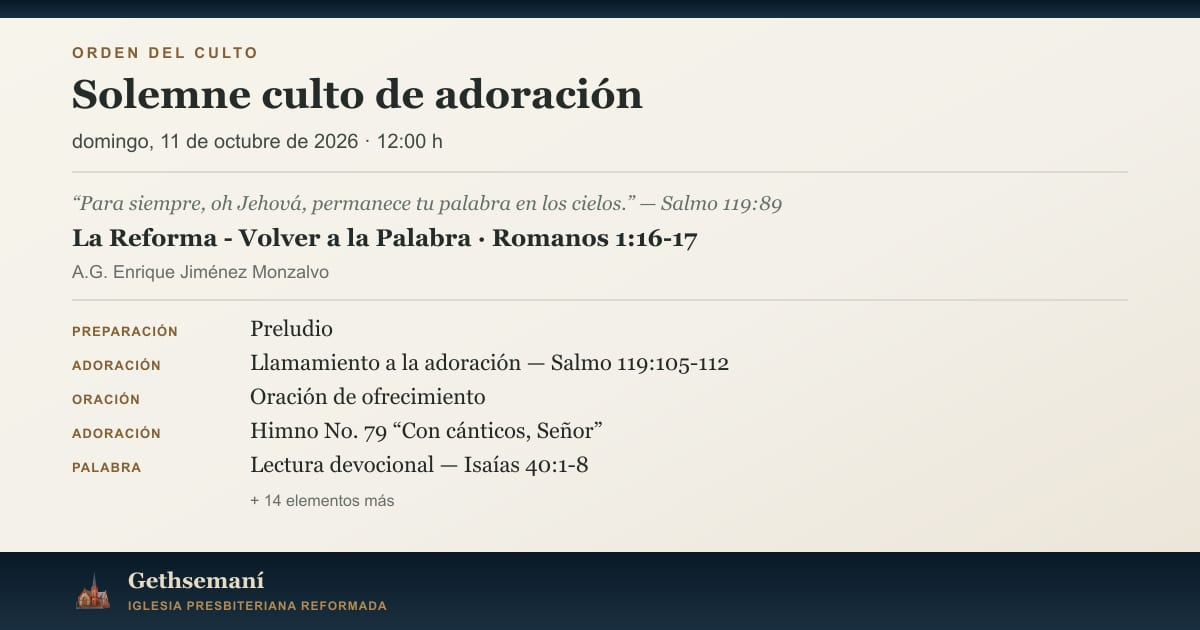
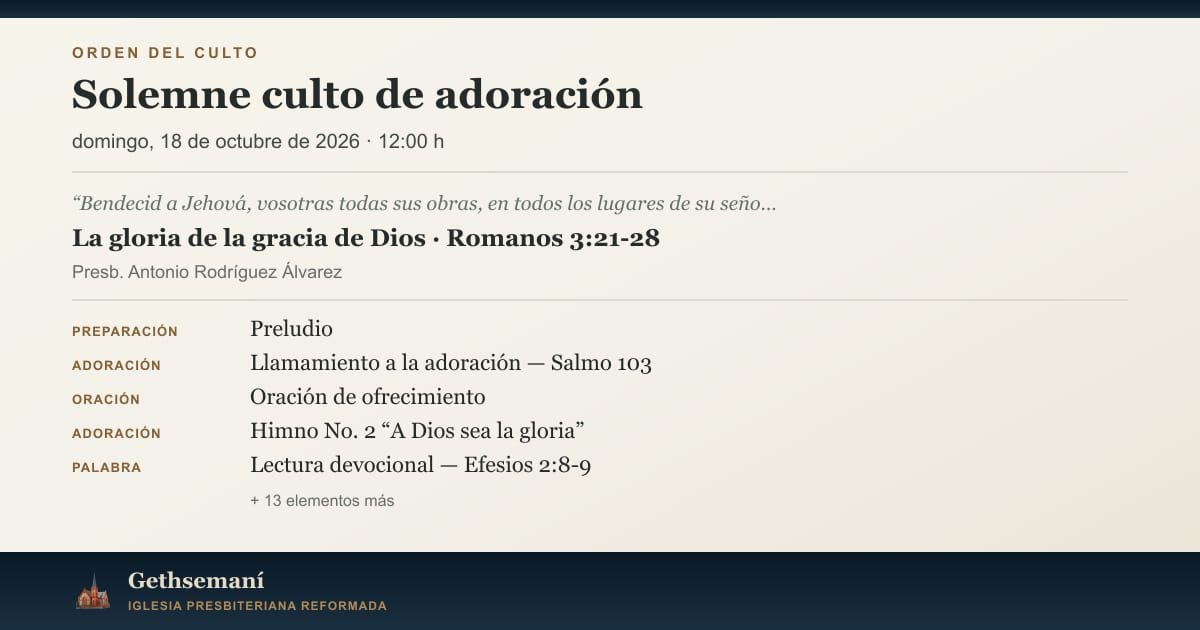
Publica el culto del 18 de octubre y Una fe fundamentada en la Palabra de Dios.

diff --git a/src/content/reflections/una-fe-fundamentada-en-la-palabra-de-dios.md b/src/content/reflections/una-fe-fundamentada-en-la-palabra-de-dios.md
@@ -1,0 +1,18 @@
+---
+title: Una fe fundamentada en la Palabra de Dios
+date: 2026-10-18T12:00:00-06:00
+description: La verdadera reforma comienza cuando la Palabra de Dios examina nuestro corazón y descansamos plenamente en la obra redentora de Cristo.
+passage: '“Porque no me avergüenzo del evangelio, porque es poder de Dios para salvación a todo aquel que cree… Mas el justo por la fe vivirá.” — Romanos 1:16-17'
+author: Boletín Vida Abundante
+published: true
+---
+
+El 31 de octubre de 1517, Martín Lutero hizo públicas sus noventa y cinco tesis, cuestionando prácticas de la iglesia que consideraba contrarias a las Escrituras. Este acontecimiento marcó el inicio de la Reforma protestante, cuyo propósito fundamental fue recuperar la autoridad de la Palabra de Dios y la claridad del evangelio de Jesucristo.
+
+Lutero fue un hombre que amó profundamente las Escrituras y comprendió que la salvación no se obtiene mediante méritos humanos, obras religiosas ni esfuerzos personales, sino únicamente por la gracia de Dios, mediante la fe en Jesucristo. Su vida nos recuerda que la verdadera reforma comienza cuando la Palabra de Dios examina nuestro corazón y transforma nuestra manera de pensar y vivir.
+
+La Reforma también nos enseña la importancia de reconocer nuestra condición pecaminosa y nuestra absoluta necesidad de la gracia divina. Lutero no buscaba simplemente cambiar estructuras religiosas, sino encontrar paz para su alma en la justicia perfecta de Cristo. En el evangelio descubrió que Jesucristo llevó nuestros pecados en la cruz y que nuestra justicia delante de Dios procede de Él.
+
+Hoy, como iglesia, necesitamos conservar ese amor por la Palabra de Dios y esa dependencia de su gracia. No basta con recordar la Reforma como un acontecimiento histórico; debemos vivir conforme a las verdades que la hicieron necesaria. Examinemos nuestra fe, sometamos nuestras ideas a las Escrituras y descansemos plenamente en la obra redentora de Cristo.
+
+Que el Señor nos conceda una fe firme, un corazón humilde y una vida transformada por su verdad, para que toda nuestra adoración y servicio sean para la gloria de su nombre.

diff --git a/src/content/service-orders/2026-10-18-culto-12.md b/src/content/service-orders/2026-10-18-culto-12.md
@@ -1,0 +1,55 @@
+---
+title: Solemne culto de adoración
+date: 2026-10-18T12:00:00-06:00
+time: "12:00"
+location: Templo Gethsemaní
+theme: '“Bendecid a Jehová, vosotras todas sus obras, en todos los lugares de su señorío. Bendice, alma mía, a Jehová.” — Salmo 103:22'
+sermonTitle: La gloria de la gracia de Dios
+sermonPassage: Romanos 3:21-28
+sermonImage: /images/sermons/la-gloria-de-la-gracia-de-dios-romanos-3.jpg
+sermonImageAlt: Pergamino de deuda tachado con el sello Cancelada sobre una mesa antigua junto a una pluma, con el título La gloria de la gracia de Dios, Romanos 3:21-28
+preacher: Presb. Antonio Rodríguez Álvarez
+published: true
+elements:
+  - label: Preparación
+    title: Preludio
+  - label: Adoración
+    title: Llamamiento a la adoración
+    detail: Salmo 103
+  - label: Oración
+    title: Oración de ofrecimiento
+  - label: Adoración
+    title: Himno No. 2 “A Dios sea la gloria”
+  - label: Palabra
+    title: Lectura devocional
+    detail: Efesios 2:8-9
+  - label: Comunidad
+    title: Saludos, bienvenida y oración pastoral
+  - label: Adoración
+    title: Himno No. 237 “Maravillosa gracia”
+  - label: Historia
+    title: Breve comentario sobre Martín Lutero
+  - label: Adoración
+    title: Himno No. 172 “En la cruz”
+  - label: Palabra
+    title: Lectura bíblica
+    detail: Romanos 3:21-28
+  - label: Palabra
+    title: Mensaje “La gloria de la gracia de Dios”
+    detail: Presb. Antonio Rodríguez Álvarez
+  - label: Respuesta
+    title: Himno de confirmación No. 278 “Sublime gracia”
+  - label: Ofrendas
+    title: Himno No. 445 “Quiero darte mi ofrenda”
+  - label: Ofrendas
+    title: Consagración de ofrendas y diezmos
+    detail: 2 Corintios 9:7
+  - label: Comunidad
+    title: Avisos
+  - label: Envío
+    title: Bendición pastoral
+  - label: Envío
+    title: Doxología No. 450 “Dios te bendiga”
+  - label: Dirección
+    title: Hazael Cordova Ruiz
+---

diff --git a/src/content/service-orders/2026-10-18-culto-vespertino.md b/src/content/service-orders/2026-10-18-culto-vespertino.md
@@ -1,25 +1,25 @@
 ---
 title: Culto vespertino de adoración
-date: 2026-10-11T18:00:00-06:00
+date: 2026-10-18T18:00:00-06:00
 time: "18:00"
 location: Templo Gethsemaní
-sermonTitle: Cuéntales cuán grandes cosas el Señor ha hecho contigo
-sermonPassage: Marcos 5:1-20
-preacher: Sem. Beatriz Samantha Hernández Jiménez
+sermonTitle: La gratitud de la fe
+sermonPassage: Lucas 17:11-19
+preacher: Presb. Antonio Rodríguez Álvarez
 published: true
 elements:
   - label: Preparación
     title: Preludio
   - label: Adoración
     title: Llamamiento a la adoración
-    detail: Salmo 92
+    detail: Salmo 100
   - label: Oración
     title: Oración de ofrecimiento
   - label: Adoración
-    title: Himno No. 35 “Grande es Jehová”
+    title: Himno No. 331 “Si hay valor y fe”
   - label: Palabra
     title: Lectura devocional
-    detail: 2 Corintios 5:17-19
+    detail: Hebreos 11
   - label: Oración
     title: Momentos de oración
   - label: Adoración
@@ -27,17 +27,16 @@ elements:
     detail: Tres himnos a escoger
   - label: Palabra
     title: Lectura bíblica
-    detail: Marcos 5:1-20
+    detail: Lucas 17:11-19
   - label: Palabra
-    title: Mensaje “Cuéntales cuán grandes cosas el Señor ha hecho contigo”
-    detail: Sem. Beatriz Samantha Hernández Jiménez
+    title: Mensaje “La gratitud de la fe”
+    detail: Presb. Antonio Rodríguez Álvarez
   - label: Ofrendas
     title: Himno No. 445 “Quiero darte mi ofrenda”
   - label: Comunidad
     title: Avisos
   - label: Envío
-    title: Bendición
-    detail: Padre Nuestro
+    title: Bendición pastoral
   - label: Envío
     title: Doxología No. 450 “Dios te bendiga”
   - label: Dirección

diff --git a/src/content/service-orders/2026-10-18-escuela-dominical.md b/src/content/service-orders/2026-10-18-escuela-dominical.md
@@ -1,37 +1,37 @@
 ---
 title: Escuela Dominical Superior “Antioquía”
-date: 2026-10-11T10:30:00-06:00
+date: 2026-10-18T10:30:00-06:00
 time: "10:30"
 location: Templo Gethsemaní
 theme: Guerra de palabras
-sermonTitle: Clases 3 y 4 “Satanás habló y los reproches a Dios”
-sermonPassage: Juan 1:1-18
+sermonTitle: Clase 6 “Preparación para la batalla”
+sermonPassage: Efesios 1:15-23
 preacher: Hna. Gladis Hernández Solís
 published: true
 elements:
   - label: Adoración
     title: Llamamiento a la adoración
-    detail: Salmo 81
+    detail: Salmo 107:1-15
   - label: Oración
     title: Oración de ofrecimiento
   - label: Adoración
-    title: Himno No. 78 “Cantemos al Señor”
+    title: Himno No. 363 “En Jesucristo, puerto de paz”
   - label: Palabra
     title: Lectura devocional
-    detail: Colosenses 1:15-17
+    detail: Efesios 6:10-13
   - label: Adoración
-    title: Himno No. 333 “Cerca, más cerca”
+    title: Himno No. 366 “Dios cuidará de ti”
   - label: Estudio
     title: Texto de estudio
-    detail: Juan 1:1-18
+    detail: Efesios 1:15-23
   - label: Estudio
     title: Guerra de palabras
-    detail: Clases 3 y 4 “Satanás habló y los reproches a Dios” · Hna. Gladis Hernández Solís
+    detail: Clase 6 “Preparación para la batalla” · Hna. Gladis Hernández Solís
   - label: Comunidad
     title: Avisos
   - label: Envío
     title: Bendición de la Escuela Dominical
     detail: 2 Pedro 3:18
   - label: Dirección
-    title: Rubén Gregorio Marcelo
+    title: Roberto Gómez Valdez
 ---
